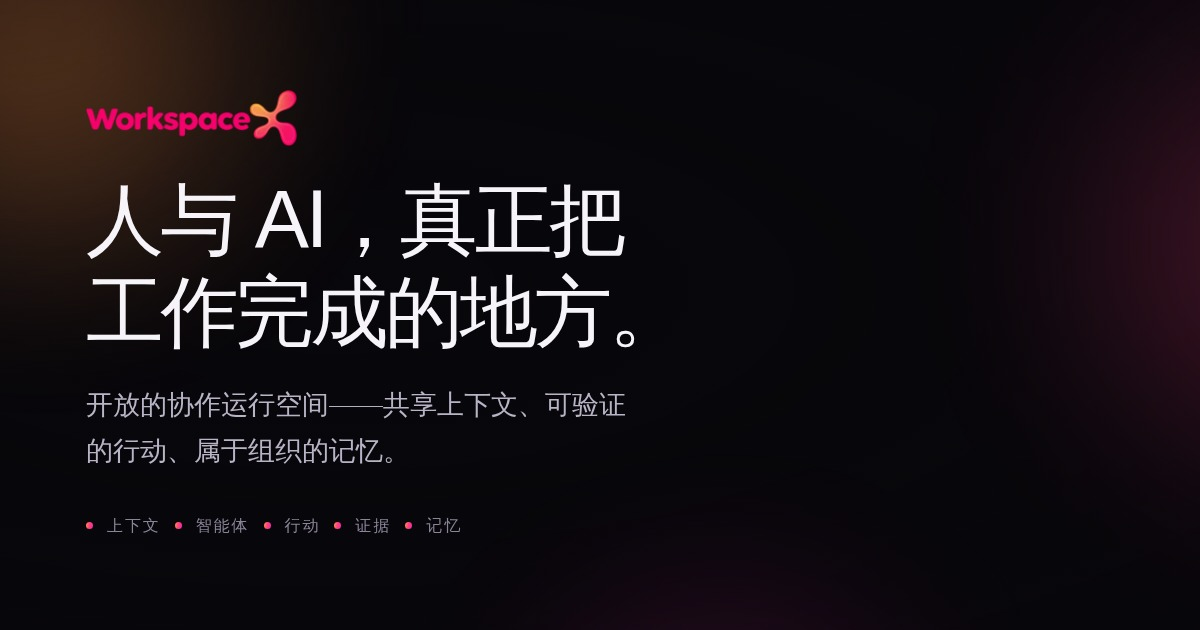
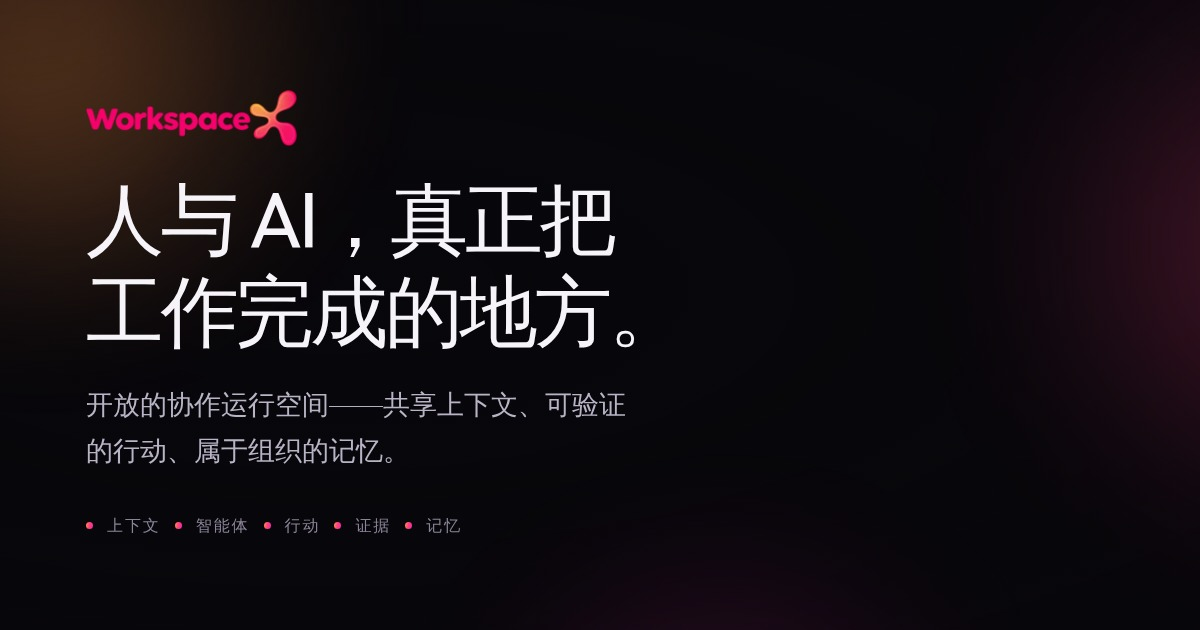
home: round 66 — /privacy redirect loop, pretty URLs, zh font-stack cost, card font
- Remove _redirects rules that loop on Cloudflare Pages (/privacy →
  /privacy.html); check-links rejects the shape.
- Canonical, hreflang, og:url, sitemap and links use /privacy and
  /zh/privacy (what Pages serves); check-links resolves pretty URLs and
  rejects links to the .html form; test server serves pretty URLs.
- Architecture explorer keeps the chosen layer and focus across the
  breakpoint rebuild (eval nav.arch.keeps, red before).
- Chinese font group moved ahead of the system-UI names: /zh/ first
  layout ~1.1 s → ~0.76 s at 4× CPU; mono stack gets real Windows/Linux
  monospace faces before the CJK group.
- build-og renders after the faces are cached (the headline had always
  been Arial) and refuses to render in the fallback; zh card one weight.
- Eval perf cases use the median of three cold loads.

Claude-Session: https://claude.ai/code/session_01XLnK35RFY2CVyMNrUo85nD

diff --git a/apps/home/assets/css/base.css b/apps/home/assets/css/base.css
@@ -73,23 +73,45 @@
      draws Chinese punctuation (fonts.css). The comma is part of the value. */
   --han-punct: ;
 
-  --font-display: var(--han-punct) "Outfit", "Outfit Fallback", ui-sans-serif, system-ui, -apple-system,
-                  "Segoe UI", "PingFang SC", "Hiragino Sans GB", "Microsoft YaHei",
+  /* ORDER MATTERS, for speed. Every run of Han text walks this list until a
+     family has the glyph, and every family it passes costs a lookup. With the
+     Chinese faces at the end, each run tried the latin face, its fallback,
+     and four system-UI names first — on the slow-3G profile /zh/'s first
+     layout took ~1 s against ~0.6 s for English, and the page sat 50 ms from
+     its budget. The Chinese group now follows the latin face and its metric
+     fallback directly. Latin text is unaffected wherever the fallback resolves
+     (Arial, Helvetica or Liberation Sans — every desktop): it stops at one of
+     those two. Where none does (Android), latin reaches the Chinese group,
+     whose names Android does not expose, and lands on system-ui as before. Measured on a Chinese font that is present and first in the
+     group (as PingFang is on a Mac): that layout halves. WenQuanYi closes the
+     group for Linux desktops without Noto. */
+  --font-display: var(--han-punct) "Outfit", "Outfit Fallback",
+                  "PingFang SC", "Hiragino Sans GB", "Microsoft YaHei",
                   "Noto Sans CJK SC", "Source Han Sans SC", "Noto Sans SC", "Heiti SC",
-                  sans-serif;
-  --font-body:    var(--han-punct) "Inter", "Inter Fallback", ui-sans-serif, system-ui, -apple-system,
-                  "Segoe UI", "PingFang SC", "Hiragino Sans GB", "Microsoft YaHei",
+                  "WenQuanYi Micro Hei", "WenQuanYi Zen Hei",
+                  ui-sans-serif, system-ui, -apple-system, "Segoe UI", sans-serif;
+  --font-body:    var(--han-punct) "Inter", "Inter Fallback",
+                  "PingFang SC", "Hiragino Sans GB", "Microsoft YaHei",
                   "Noto Sans CJK SC", "Source Han Sans SC", "Noto Sans SC", "Heiti SC",
-                  sans-serif;
+                  "WenQuanYi Micro Hei", "WenQuanYi Zen Hei",
+                  ui-sans-serif, system-ui, -apple-system, "Segoe UI", sans-serif;
   /* The mono stack needs the same CJK tail. Every eyebrow, label and status
      line on /zh/ is set in it — sixty-odd elements — and with no Han face
      named, the browser picked one for "generic monospace", which on a Mac is
      often not the face the body text uses and sometimes has Japanese glyph
      shapes. Round 39 fixed this for display and body and missed this stack;
      its gate only looked at those two. */
+  /* The monospaced faces for Windows and Linux come BEFORE the Chinese group:
+     ui-monospace, SF Mono and Menlo exist only on Apple systems, so elsewhere
+     latin labels fell through to the first Chinese face with latin glyphs —
+     Microsoft YaHei on Windows, WenQuanYi or Noto CJK on Linux — and every
+     eyebrow and status line on the English page was set in a CJK font's
+     proportional latin. */
   --font-mono:    var(--han-punct) ui-monospace, SFMono-Regular, "SF Mono", Menlo,
+                  "Cascadia Mono", Consolas, "DejaVu Sans Mono", "Liberation Mono",
                   "PingFang SC", "Hiragino Sans GB", "Microsoft YaHei",
                   "Noto Sans CJK SC", "Source Han Sans SC", "Noto Sans SC", "Heiti SC",
+                  "WenQuanYi Micro Hei", "WenQuanYi Zen Hei",
                   monospace;
 
   /* ---- radius scale ------------------------------------------------------

diff --git a/apps/home/zh/privacy.html b/apps/home/zh/privacy.html
@@ -11,16 +11,16 @@
      label is the <title>, truncated to something like "WorkspaceX — Th". -->
 <meta name="apple-mobile-web-app-title" content="WorkspaceX">
 
-<link rel="canonical" href="https://workspacex.boardx.us/zh/privacy.html">
-<link rel="alternate" hreflang="en"      href="https://workspacex.boardx.us/privacy.html">
-<link rel="alternate" hreflang="zh-Hans" href="https://workspacex.boardx.us/zh/privacy.html">
-<link rel="alternate" hreflang="x-default" href="https://workspacex.boardx.us/privacy.html">
+<link rel="canonical" href="https://workspacex.boardx.us/zh/privacy">
+<link rel="alternate" hreflang="en"      href="https://workspacex.boardx.us/privacy">
+<link rel="alternate" hreflang="zh-Hans" href="https://workspacex.boardx.us/zh/privacy">
+<link rel="alternate" hreflang="x-default" href="https://workspacex.boardx.us/privacy">
 
 <meta property="og:type" content="website">
 <meta property="og:title" content="隐私与数据 — WorkspaceX">
 <meta property="og:description" content="这个网站收集什么、不收集什么，以及为什么它没有分析工具、没有 cookie、没有第三方请求。">
 <meta property="og:site_name" content="WorkspaceX">
-<meta property="og:url" content="https://workspacex.boardx.us/zh/privacy.html">
+<meta property="og:url" content="https://workspacex.boardx.us/zh/privacy">
 <meta property="og:locale" content="zh_CN">
 <meta property="og:locale:alternate" content="en_US">
 <!-- The card. This page had og:title, description and url and no image at
@@ -58,8 +58,8 @@
     </a>
     <div class="nav__actions" style="margin-left:auto">
       <nav class="langswitch" aria-label="语言" data-i18n-aria="aria.language">
-        <a class="langswitch__btn" href="/privacy.html"  hreflang="en">EN</a>
-        <a class="langswitch__btn" href="/zh/privacy.html" aria-current="true" hreflang="zh-Hans" lang="zh-Hans">中文</a>
+        <a class="langswitch__btn" href="/privacy"  hreflang="en">EN</a>
+        <a class="langswitch__btn" href="/zh/privacy" aria-current="true" hreflang="zh-Hans" lang="zh-Hans">中文</a>
       </nav>
       <a class="nav__ghost" href="/zh/" data-i18n="doc.back">返回网站</a>
     </div>

diff --git a/apps/home/privacy.html b/apps/home/privacy.html
@@ -10,16 +10,16 @@
      label is the <title>, truncated to something like "WorkspaceX — Th". -->
 <meta name="apple-mobile-web-app-title" content="WorkspaceX">
 
-<link rel="canonical" href="https://workspacex.boardx.us/privacy.html">
-<link rel="alternate" hreflang="en"      href="https://workspacex.boardx.us/privacy.html">
-<link rel="alternate" hreflang="zh-Hans" href="https://workspacex.boardx.us/zh/privacy.html">
-<link rel="alternate" hreflang="x-default" href="https://workspacex.boardx.us/privacy.html">
+<link rel="canonical" href="https://workspacex.boardx.us/privacy">
+<link rel="alternate" hreflang="en"      href="https://workspacex.boardx.us/privacy">
+<link rel="alternate" hreflang="zh-Hans" href="https://workspacex.boardx.us/zh/privacy">
+<link rel="alternate" hreflang="x-default" href="https://workspacex.boardx.us/privacy">
 
 <meta property="og:type" content="website">
 <meta property="og:title" content="Privacy, security and accessibility — WorkspaceX">
 <meta property="og:description" content="What this website collects, what it does not, and why it has no analytics, no cookies and no third-party requests.">
 <meta property="og:site_name" content="WorkspaceX">
-<meta property="og:url" content="https://workspacex.boardx.us/privacy.html">
+<meta property="og:url" content="https://workspacex.boardx.us/privacy">
 <meta property="og:locale" content="en_US">
 <meta property="og:locale:alternate" content="zh_CN">
 <!-- The card. This page had og:title, description and url and no image at
@@ -57,8 +57,8 @@
     </a>
     <div class="nav__actions" style="margin-left:auto">
       <nav class="langswitch" aria-label="Language" data-i18n-aria="aria.language">
-        <a class="langswitch__btn" href="/privacy.html" aria-current="true" hreflang="en">EN</a>
-        <a class="langswitch__btn" href="/zh/privacy.html" hreflang="zh-Hans" lang="zh-Hans">中文</a>
+        <a class="langswitch__btn" href="/privacy" aria-current="true" hreflang="en">EN</a>
+        <a class="langswitch__btn" href="/zh/privacy" hreflang="zh-Hans" lang="zh-Hans">中文</a>
       </nav>
       <a class="nav__ghost" href="/" data-i18n="doc.back">Back to the site</a>
     </div>

diff --git a/apps/home/assets/css/site.css b/apps/home/assets/css/site.css
@@ -105,18 +105,24 @@
 
   --han-punct: ;
 
-  --font-display: var(--han-punct) "Outfit", "Outfit Fallback", ui-sans-serif, system-ui, -apple-system,
-                  "Segoe UI", "PingFang SC", "Hiragino Sans GB", "Microsoft YaHei",
-                  "Noto Sans CJK SC", "Source Han Sans SC", "Noto Sans SC", "Heiti SC",
-                  sans-serif;
-  --font-body:    var(--han-punct) "Inter", "Inter Fallback", ui-sans-serif, system-ui, -apple-system,
-                  "Segoe UI", "PingFang SC", "Hiragino Sans GB", "Microsoft YaHei",
-                  "Noto Sans CJK SC", "Source Han Sans SC", "Noto Sans SC", "Heiti SC",
-                  sans-serif;
 
-  --font-mono:    var(--han-punct) ui-monospace, SFMono-Regular, "SF Mono", Menlo,
+  --font-display: var(--han-punct) "Outfit", "Outfit Fallback",
                   "PingFang SC", "Hiragino Sans GB", "Microsoft YaHei",
                   "Noto Sans CJK SC", "Source Han Sans SC", "Noto Sans SC", "Heiti SC",
+                  "WenQuanYi Micro Hei", "WenQuanYi Zen Hei",
+                  ui-sans-serif, system-ui, -apple-system, "Segoe UI", sans-serif;
+  --font-body:    var(--han-punct) "Inter", "Inter Fallback",
+                  "PingFang SC", "Hiragino Sans GB", "Microsoft YaHei",
+                  "Noto Sans CJK SC", "Source Han Sans SC", "Noto Sans SC", "Heiti SC",
+                  "WenQuanYi Micro Hei", "WenQuanYi Zen Hei",
+                  ui-sans-serif, system-ui, -apple-system, "Segoe UI", sans-serif;
+
+
+  --font-mono:    var(--han-punct) ui-monospace, SFMono-Regular, "SF Mono", Menlo,
+                  "Cascadia Mono", Consolas, "DejaVu Sans Mono", "Liberation Mono",
+                  "PingFang SC", "Hiragino Sans GB", "Microsoft YaHei",
+                  "Noto Sans CJK SC", "Source Han Sans SC", "Noto Sans SC", "Heiti SC",
+                  "WenQuanYi Micro Hei", "WenQuanYi Zen Hei",
                   monospace;
 
 

diff --git a/apps/home/assets/js/diagrams.js b/apps/home/assets/js/diagrams.js
@@ -513,12 +513,21 @@ const ARCH_IMPACT = {
   l1: ['l1'],
 };
 
+/* The explorer is rebuilt when the width crosses the narrow breakpoint (a
+   tablet rotated, a window resized). It used to come back on L3 with focus
+   dropped on <body>: the reader's choice and place both lost. The choice is
+   kept here, and renderDiagrams notes which layer had focus before the old
+   drawing was thrown away. */
+let archSelected = 'l3';
+let archFocus = null;
+
 function wireArchSelection(root) {
   const rows = [...root.querySelectorAll('[data-layer]')];
   const detail = document.getElementById('arch-detail');
   if (!rows.length) return () => {};
 
   const select = (id) => {
+    archSelected = id;
     const impact = ARCH_IMPACT[id] ?? [id];
     rows.forEach((row) => {
       const rid = row.dataset.layer;
@@ -540,7 +549,11 @@ function wireArchSelection(root) {
     });
   });
 
-  select('l3');
+  select(archSelected);
+  if (archFocus) {
+    rows.find((r) => r.dataset.layer === archFocus)?.focus({ preventScroll: true });
+    archFocus = null;
+  }
   return () => {};
 }
 
@@ -818,6 +831,7 @@ let loopApi = null;
 
 export function renderDiagrams(lang = pageLang()) {
   LANG = lang;
+  archFocus = document.activeElement?.closest?.('.d-arch [data-layer]')?.dataset.layer ?? null;
   teardowns.forEach((fn) => fn?.());
   teardowns = [];
 

diff --git a/apps/home/scripts/og-card.html b/apps/home/scripts/og-card.html
@@ -39,7 +39,11 @@
   /* `ch` is the width of a "0", so 17ch of Han is far narrower than 17 Han
      characters — the Chinese card was using the left 45% of the frame and
      leaving the rest empty. */
-  html[lang^="zh"] h1 { max-width: 13em; line-height: 1.18; }
+  /* The card is rendered here, where the Chinese face comes in one weight;
+     /zh/ forbids faked bold, so the Han in the headline is regular while
+     "AI" beside it was Outfit 700 — two weights in four characters on the
+     image people share. One weight for both. */
+  html[lang^="zh"] h1 { max-width: 13em; line-height: 1.18; font-weight: 400; }
   html[lang^="zh"] p  { max-width: 20em; line-height: 1.7; }
   .chain { display: flex; align-items: center; gap: 14px; margin-top: 12px; }
   .chain span { font-family: var(--font-mono); font-size: 16px; letter-spacing: .12em;

diff --git a/apps/home/index.html b/apps/home/index.html
@@ -1031,7 +1031,7 @@
           <li><a href="#contact" data-i18n="footer.l17">Where to start</a></li>
           <li><a href="mailto:hello@boardx.us" data-i18n="footer.l7">Contact</a></li>
           <li><a href="https://boardx.us" rel="noopener" data-i18n="footer.l8">BoardX</a></li>
-          <li><a href="/privacy.html" data-i18n="footer.l11">Privacy &amp; security</a></li>
+          <li><a href="/privacy" data-i18n="footer.l11">Privacy &amp; security</a></li>
         </ul>
       </div>
     </div>

diff --git a/apps/home/zh/index.html b/apps/home/zh/index.html
@@ -1032,7 +1032,7 @@
           <li><a href="#contact" data-i18n="footer.l17">从哪里开始</a></li>
           <li><a href="mailto:hello@boardx.us" data-i18n="footer.l7">联系我们</a></li>
           <li><a href="https://boardx.us" rel="noopener" data-i18n="footer.l8">BoardX</a></li>
-          <li><a href="/zh/privacy.html" data-i18n="footer.l11">隐私与安全</a></li>
+          <li><a href="/zh/privacy" data-i18n="footer.l11">隐私与安全</a></li>
         </ul>
       </div>
     </div>

diff --git a/apps/home/docs/REVIEW-LOG.md b/apps/home/docs/REVIEW-LOG.md
@@ -1557,3 +1557,27 @@ passed after. The set went from 50 cases to 75 while the score held — which is
 what a score that is measuring something looks like. What it still does not
 measure: whether the argument persuades, and iOS Safari (this machine has no
 WebKit).
+
+### Round 66 — what the host does, and what the fonts cost (76 cases)
+
+Run on a new, slower container: the committed round-65 code measured the
+Chinese page's slow-3G first paint at **3416–4048 ms** here, against a
+3200 ms budget it had met by ~100 ms on the previous machine. The thin
+margin this log kept noting turned out to be a real problem, not a figure.
+
+| # | Problem | Fix |
+|---|-----|-----|
+| 1 | **`/privacy` redirected forever** (both languages). Cloudflare Pages already serves `/privacy` from `privacy.html` and 308-redirects `/privacy.html` back to `/privacy`; `_redirects` sent `/privacy` to `/privacy.html`. The live host is not reachable from this machine (the egress policy refuses it), so this rests on the host's documented behavior, not on a request. | Both rules removed. `check-links` fails any `_redirects` rule of the shape `/x → /x.html` (proved red: 2). |
+| 2 | **Every reference to the privacy page pointed at a redirect**: its canonical, hreflang, `og:url`, sitemap entries, the footer link and the language switch all named `…/privacy.html`, which Pages answers with a 308. A canonical that redirects is the one URL a search engine should never have to follow. | The URLs Pages serves: `/privacy`, `/zh/privacy`. `check-links` resolves extensionless paths the way the host does and fails a link to a `.html` form other than `index`/`404` (proved red: 16); the test server serves pretty URLs too. |
+| 3 | **The architecture explorer forgot your choice on rotate.** Crossing the 700 px breakpoint rebuilds the diagram, which reset it to L3 and dropped focus on `<body>`. | The chosen layer is kept across rebuilds and focus returns to the same row. New case `nav.arch.keeps`: 0 → 1. |
+| 4 | **Why `/zh/` paints late — found, and mostly fixed.** Traced: the first layout of the Chinese page took ~1.2–1.5 s at 4× CPU against ~0.6 s for English. Bisecting the stylesheet: every run of Han text walks the font stack until a family has the glyph, and the Chinese group sat *after* the latin face, its fallback and four system-UI names; each family passed costs a lookup. Moving the Chinese group directly after the latin face and its metric fallback: layout ~1.1 s → ~0.76 s here (where only WenQuanYi, last in the group, exists), and ~0.49 s when the present face is first in the group, as PingFang is on a Mac. Slow-3G first paint here: 3416–4048 → **3028–3212 ms**. Latin text is unaffected wherever the metric fallback resolves. | Stacks reordered in `base.css` (one declaration, both languages); WenQuanYi added for Linux desktops without Noto. **And a bug the reorder exposed**: `ui-monospace`, SF Mono and Menlo exist only on Apple systems, so on Windows and Linux every mono label fell through to the first CJK face with latin glyphs — Microsoft YaHei on Windows, before this round too. Real monospaced faces (Cascadia Mono, Consolas, DejaVu Sans Mono, Liberation Mono) now come first. |
+| 5 | **The social card's headline had never been set in the brand face.** Every card this generator produced — main included — showed the headline in Arial: the faces are `font-display: optional`, the card page loaded them cold, and they missed the block period. | `build-og` loads once to fetch the faces and renders on a second load, and refuses to write a card if they did not load. The Chinese card sets its headline in one weight: rendered here, the Han face has one weight and `/zh/` forbids faked bold, so "AI" in Outfit 700 sat beside regular Han. |
+
+The set itself: its performance cases now take the median of three cold loads.
+One load measured the same page's desktop LCP anywhere between 400 and 1056 ms
+on this machine — 0.05 of score from noise alone.
+
+Score on this machine: **9.93** (en 9.96, zh 9.93). Round 65 recorded 9.95 on
+the previous one; the difference is the Chinese desktop LCP case (692 ms median
+here), i.e. the machine, and it would be dishonest to present the two numbers
+as a trend.
